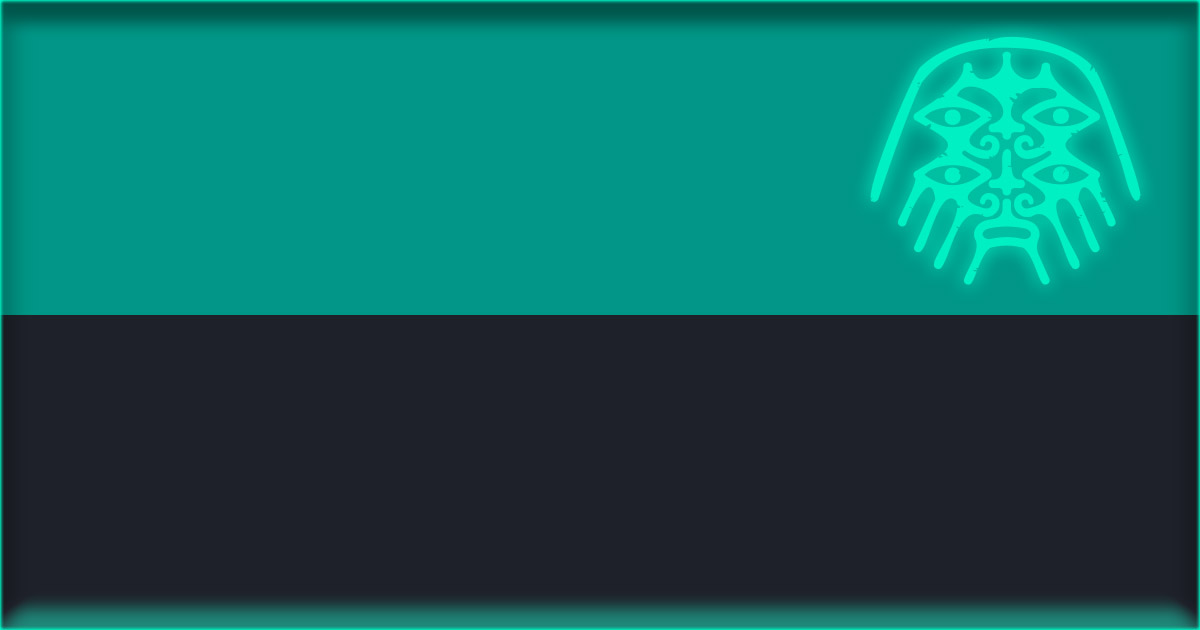
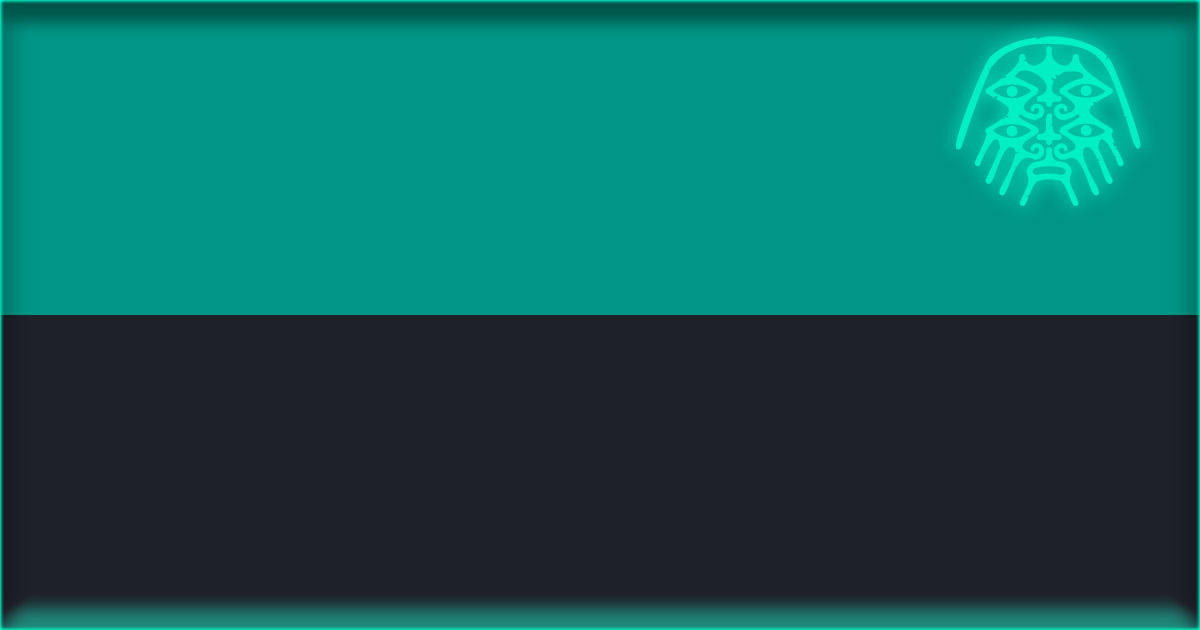
feat: update social card rendering and enhance Open Graph description formatting

Changed region(s): [[0.7092, 0.0302, 0.9558, 0.4524]]

diff --git a/docs/assets/hooks/social_cards.py b/docs/assets/hooks/social_cards.py
@@ -358,32 +358,52 @@ def _render(title, label, uid, versions, desc, is_fallback_desc=False):
     # so txt_y = by + lbl_pad_v - lbl_ref_bb[1]
     lbl_txt_y_offset = lbl_pad_v - lbl_ref_bb[1]
 
-    badge_items = []   # list of (text, badge_w)
-    for txt in (label, uid):
-        if not txt:
-            continue
-        bb = draw.textbbox((0, 0), txt, font=f_lbl)
+    # Measure badge widths
+    label_bw = 0
+    uid_bw = 0
+    if label:
+        bb = draw.textbbox((0, 0), label, font=f_lbl)
         tw = bb[2] - bb[0]
-        bw = tw + badge_pad_x * 2
-        badge_items.append((txt, bw))
+        label_bw = tw + badge_pad_x * 2
+    if uid:
+        bb = draw.textbbox((0, 0), uid, font=f_lbl)
+        tw = bb[2] - bb[0]
+        uid_bw = tw + badge_pad_x * 2
 
-    if badge_items:
+    if label or uid:
         # bottom edge of badges sits at the card's vertical centre - 30px margin
         badges_y = H // 2 - 30 - lbl_badge_h
-        bx = MARGIN
-        for txt, bw in badge_items:
+        
+        # Draw label on the left
+        if label:
+            bx = MARGIN
             by = badges_y
             draw.rounded_rectangle(
-                [bx, by, bx + bw, by + lbl_badge_h],
+                [bx, by, bx + label_bw, by + lbl_badge_h],
                 radius=3,
                 fill=COLOR_BADGE_BG,
             )
-            bb = draw.textbbox((0, 0), txt, font=f_lbl)
+            bb = draw.textbbox((0, 0), label, font=f_lbl)
             tw = bb[2] - bb[0]
-            txt_x = bx + (bw - tw) // 2
+            txt_x = bx + (label_bw - tw) // 2
             txt_y = by + lbl_txt_y_offset
-            draw.text((txt_x, txt_y), txt, font=f_lbl, fill=COLOR_BADGE_TEXT)
-            bx += bw + badge_gap
+            draw.text((txt_x, txt_y), label, font=f_lbl, fill=COLOR_BADGE_TEXT)
+        
+        # Draw UID centered on the rune's horizontal center (1048.5px)
+        if uid:
+            rune_center_x = 1048.5
+            bx = int(rune_center_x - uid_bw / 2)
+            by = badges_y
+            draw.rounded_rectangle(
+                [bx, by, bx + uid_bw, by + lbl_badge_h],
+                radius=3,
+                fill=COLOR_BADGE_BG,
+            )
+            bb = draw.textbbox((0, 0), uid, font=f_lbl)
+            tw = bb[2] - bb[0]
+            txt_x = bx + (uid_bw - tw) // 2
+            txt_y = by + lbl_txt_y_offset
+            draw.text((txt_x, txt_y), uid, font=f_lbl, fill=COLOR_BADGE_TEXT)
     # ── Lower half: description + version badges ──────────────
     y = H // 2 + 13
 
@@ -592,22 +612,45 @@ def on_post_page(output, page, config, **kwargs):
         og_title = f"{title} [{label}]"
     safe_title = html_mod.escape(og_title, quote=True)
 
-    # ── OG description: "Description\nVersions: v1, v2, …" ─────
-    safe_desc = None
+    # ── OG description: Markdown-styled with badges ─────────────────
+    # Format: **Title** `label`
+    #         
+    #         Description
+    #         `1.0.0` `1.1.0` `1.1.1`...
+    #         `uid`
+    desc_parts = []
+    
+    # Line 1: **Title** `label`
+    title_line = f"**{html_mod.escape(title, quote=True)}**"
+    if label:
+        title_line += f" `{html_mod.escape(label, quote=True)}`"
+    desc_parts.append(title_line)
+    
+    # Line 2: blank
+    desc_parts.append("")
+    
+    # Line 3: Description
+    if desc:
+        desc_parts.append(html_mod.escape(desc, quote=True))
+    
+    # Line 4: Version badges
     if versions:
-        ver_str = ", ".join(str(v) for v in versions)
-        if desc:
-            safe_desc_part = html_mod.escape(desc, quote=True)
-            safe_ver_str = html_mod.escape(ver_str, quote=True)
-            safe_desc = f"{safe_desc_part}&#10;{safe_ver_str}"
-        else:
-            safe_desc = html_mod.escape(ver_str, quote=True)
-    else:
-        safe_desc = html_mod.escape(desc, quote=True) if desc else ""
+        version_badges = " ".join(f"`{html_mod.escape(str(v), quote=True)}`" for v in versions)
+        desc_parts.append(version_badges)
+    
+    # Line 5: UID badge
+    if uid:
+        desc_parts.append(f"`{html_mod.escape(uid, quote=True)}`")
+    
+    safe_desc = "&#10;".join(desc_parts)
+
+    # Discord embed color (teal accent, hex without #)
+    color_discord = COLOR.lstrip("#")
 
     og = (
         f'<meta property="og:title" content="{safe_title}">\n'
         f'    <meta property="og:description" content="{safe_desc}">\n'
+        f'    <meta property="og:color" content="{color_discord}">\n'
         f'    <meta property="og:image" content="{safe_url}">\n'
         f'    <meta property="og:image:type" content="image/png">\n'
         f'    <meta property="og:image:width" content="{W}">\n'